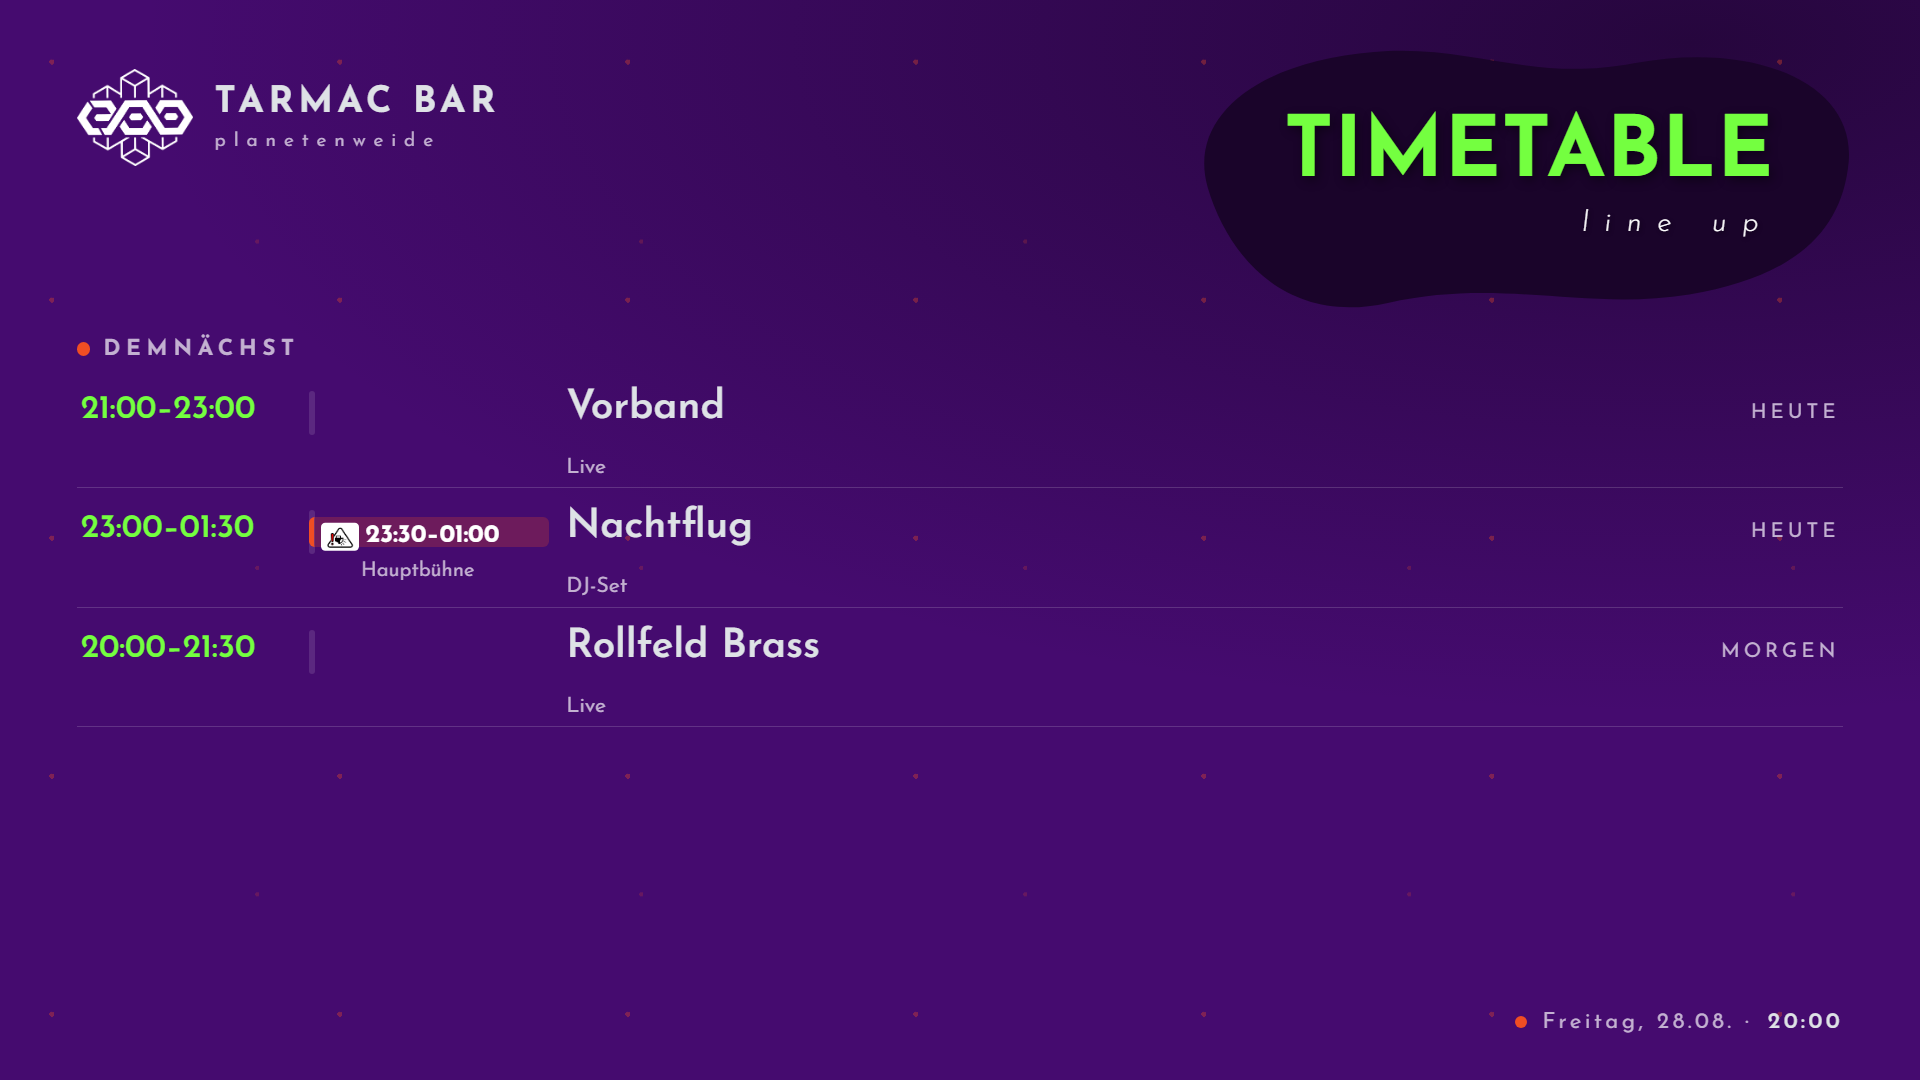
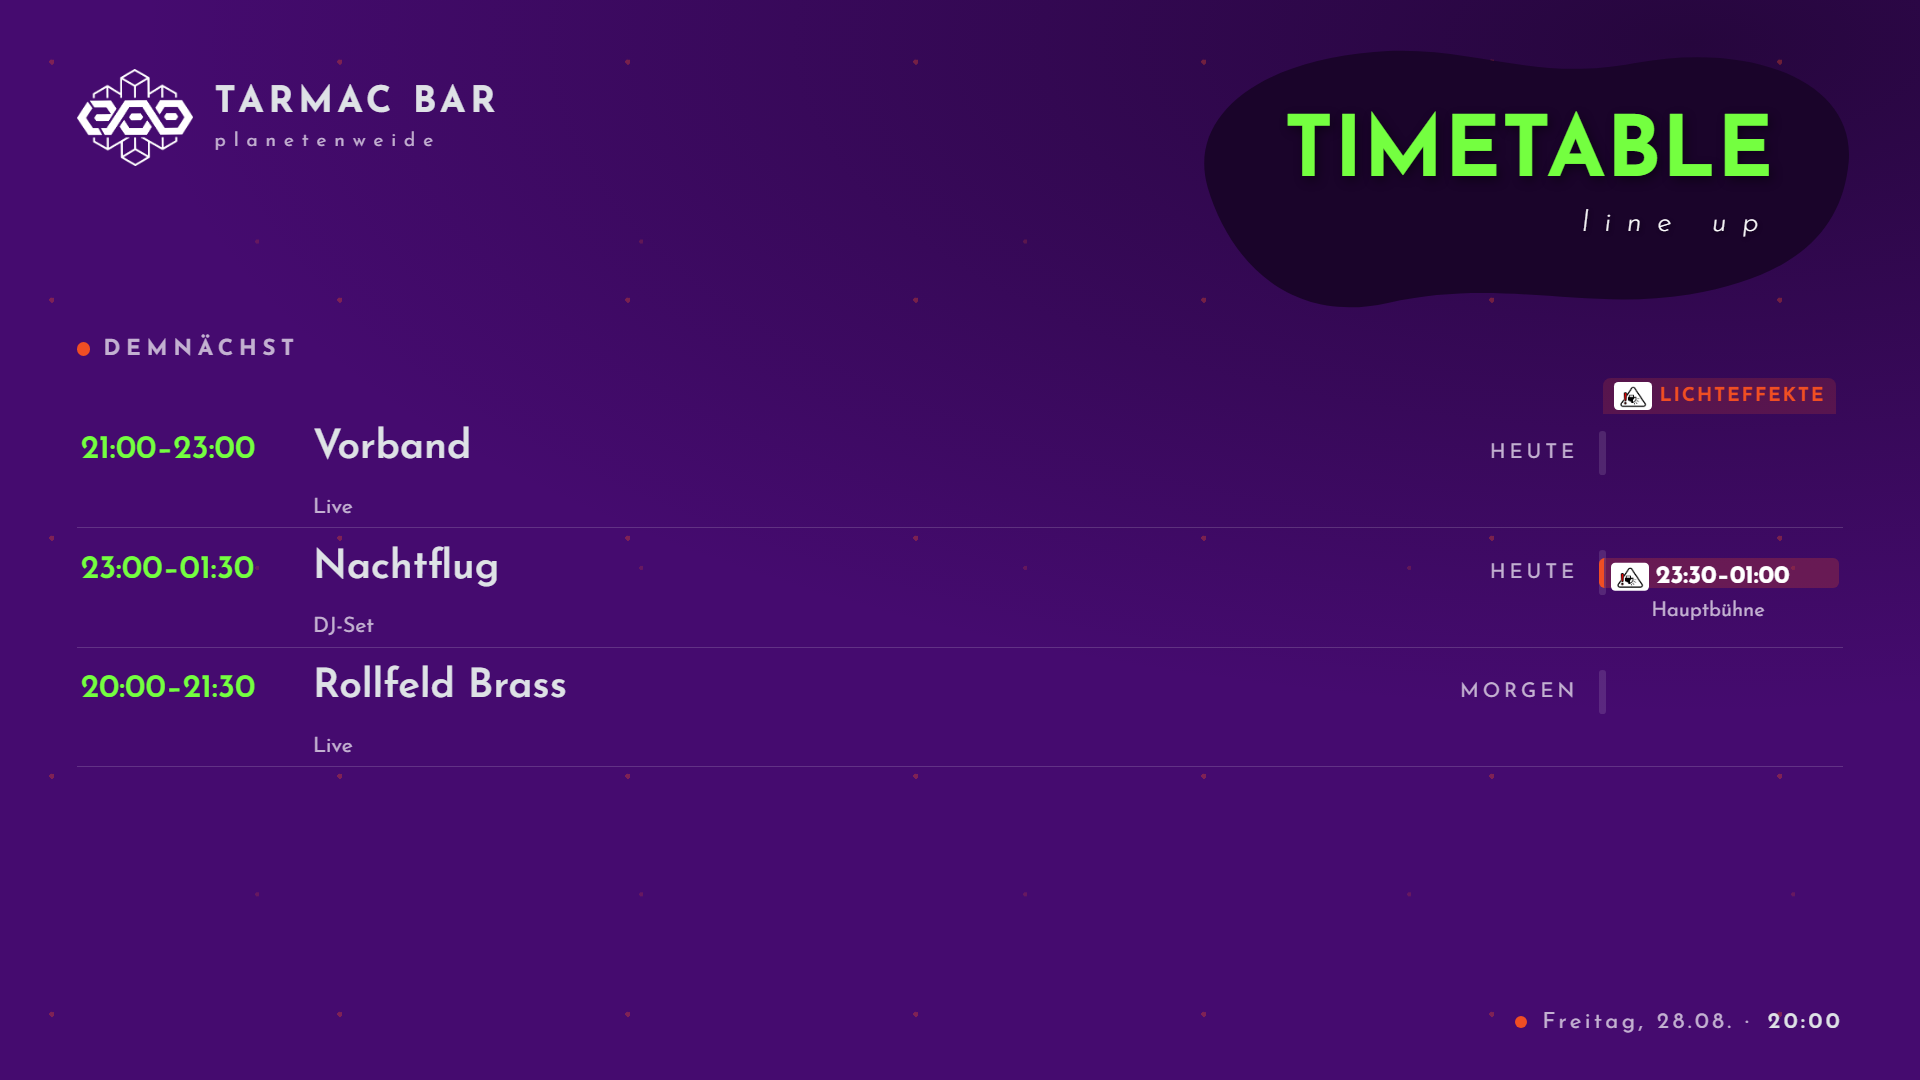
Lichtspalte nach rechts, mit dem Zeichen als Reiter
Die Spalte stand zwischen Uhrzeit und Act und zog die Liste auseinander. Sie
steht jetzt ganz rechts, hinter dem Tag, und darueber sitzt das Warnzeichen mit
der Beschriftung "Lichteffekte" als Reiter. Damit ist auf den ersten Blick klar,
wofuer die Spur steht - vorher war der Balken nur ein Streifen neben dem Act.

Beim Ansehen lief die Beschriftung ueber den Bildrand hinaus: mit der Sperrung
des uebrigen Kleinkrams war "LICHTEFFEKTE" breiter als die Spalte. Schriftgrad
und Sperrung sind jetzt auf die Spaltenbreite abgestimmt, und ein Test misst
nach, dass der Reiter ueber der Spalte sitzt und ins Bild passt.

diff --git a/src/player.css b/src/player.css
@@ -948,18 +948,47 @@ body.uhrUnsicher .fussUhr b { color: var(--accent2); }
    das Licht mitten im Set an, faengt auch der Balken mittendrin an. Eine eigene
    Zeile konnte das nicht zeigen - sie riss die Liste auseinander und
    verschleierte gerade das Interessante. */
+/* Die Lichtspalte steht ganz rechts, mit einem eigenen Kopf darueber. Zwischen
+   Uhrzeit und Act hat sie die Liste auseinandergezogen; am Rand liest sie sich
+   wie das, was sie ist - eine zusaetzliche Spur neben dem Programm. */
+.ttKopf,
 .ttList.mitLicht .ttRow {
-  grid-template-columns: 11em 12.5em 1fr auto;
-  column-gap: 0.9em;
+  display: grid;
+  grid-template-columns: 11em 1fr auto 12.5em;
+  column-gap: 1.1em;
 }
 /* Ausdruecklich benannt: ein Kind mit fester Zeile (die Lichtspur) wird vom
    Browser vor den frei platzierten eingeordnet und haette sich sonst die erste
    Spalte geschnappt - die Uhrzeit waere nach rechts gerutscht. */
 .ttList.mitLicht .ttRow .when { grid-column: 1; }
-.ttList.mitLicht .ttRow .lichtSpur { grid-column: 2; }
-.ttList.mitLicht .ttRow .act { grid-column: 3; }
-.ttList.mitLicht .ttRow .day { grid-column: 4; }
-.ttList.mitLicht .ttRow .info { grid-column: 3 / -1; }
+.ttList.mitLicht .ttRow .act { grid-column: 2; }
+.ttList.mitLicht .ttRow .day { grid-column: 3; }
+.ttList.mitLicht .ttRow .lichtSpur { grid-column: 4; }
+.ttList.mitLicht .ttRow .info { grid-column: 2 / 4; }
+
+/* Der Spaltenkopf: das Zeichen sitzt ueber der Spur wie ein Reiter.
+
+   Die Beschriftung muss in die Spaltenbreite passen - mit der Sperrung des
+   uebrigen Kleinkrams lief sie ueber den Bildrand hinaus. */
+.ttKopf { margin-bottom: 0.25em; }
+.klLicht {
+  grid-column: 4;
+  justify-self: start;
+  display: inline-flex;
+  align-items: center;
+  gap: 0.4em;
+  white-space: nowrap;
+  font-size: 1em;
+  font-weight: 700;
+  letter-spacing: 0.09em;
+  text-transform: uppercase;
+  color: var(--accent2);
+  /* Angedeuteter Reiter: oben rund, unten offen zur Spalte hin */
+  background: color-mix(in srgb, var(--accent2) 18%, transparent);
+  border-radius: 0.4em 0.4em 0 0;
+  padding: 0.22em 0.55em 0.18em;
+}
+body.spar .klLicht { background: none; }
 
 .lichtSpur {
   position: relative;

diff --git a/test/e2e/lichteffekte.spec.js b/test/e2e/lichteffekte.spec.js
@@ -53,6 +53,45 @@ test.describe('Kennzeichnung im Timetable', () => {
       await expect(nachtflug.locator('.lmNote')).toHaveText('Hauptbühne');
     });
 
+  test('die Spalte steht rechts und traegt oben das Zeichen als Reiter',
+    async ({ page, bar }) => {
+      bar.konfig(programm());
+      await zeitStellen(page, FREITAG_20_UHR);
+      await page.goto(bar.adresse + '/');
+
+      const reiter = page.locator('.klLicht');
+      await expect(reiter).toBeVisible();
+      await expect(reiter).toContainText('Lichteffekte');
+      await expect(reiter.locator('.lichtZeichen img')).toHaveCount(1);
+
+      const lage = await page.evaluate(() => {
+        const zeile = document.querySelector('.ttRow.hatLicht');
+        const s = (w) => zeile.querySelector(w).getBoundingClientRect();
+        const k = document.querySelector('.klLicht').getBoundingClientRect();
+        const spur = s('.lichtSpur');
+        return {
+          rechtsVomAct: spur.left >= s('.act').right,
+          rechtsVomTag: spur.left >= s('.day').right,
+          // Der Reiter sitzt ueber der Spalte, nicht irgendwo
+          kopfUeberSpalte: Math.abs(k.left - spur.left) < 4 && k.bottom <= spur.top,
+          // und laeuft nicht ueber den Bildrand hinaus
+          imBild: k.right <= window.innerWidth
+        };
+      });
+
+      expect(lage.rechtsVomAct, 'die Spalte steht rechts vom Act').toBe(true);
+      expect(lage.rechtsVomTag, 'und rechts vom Tag').toBe(true);
+      expect(lage.kopfUeberSpalte, 'der Reiter sitzt ueber der Spalte').toBe(true);
+      expect(lage.imBild, 'der Reiter passt ins Bild').toBe(true);
+    });
+
+  test('ohne Lichtzeiten gibt es auch keinen Reiter', async ({ page, bar }) => {
+    bar.konfig(programm({ lichteffekte: [] }));
+    await zeitStellen(page, FREITAG_20_UHR);
+    await page.goto(bar.adresse + '/');
+    await expect(page.locator('.klLicht')).toHaveCount(0);
+  });
+
   test('der Balken sitzt versetzt - dort, wo die Phase wirklich anfaengt',
     async ({ page, bar }) => {
       bar.konfig(programm());

diff --git a/src/player.js b/src/player.js
@@ -834,6 +834,14 @@ function renderTimetable() {
 
   if (zeilen.length) {
     body += '<div class="ttLabel">' + (view.current ? 'ALS N&Auml;CHSTES' : 'DEMN&Auml;CHST') + '</div>';
+
+    // Kopf ueber der Lichtspalte, damit klar ist, wofuer die Spalte steht -
+    // ohne ihn waere der Balken nur ein Streifen neben dem Act.
+    if (mitLicht) {
+      body += '<div class="ttKopf"><span class="klLicht">' + lichtZeichen() +
+        '<span>Lichteffekte</span></span></div>';
+    }
+
     body += '<div class="ttList' + (mitLicht ? ' mitLicht' : '') + '">';
     for (const x of zeilen) {
       const e = x.eintrag;
@@ -842,13 +850,13 @@ function renderTimetable() {
 
       body += '<div class="ttRow' + (spuren.length ? ' hatLicht' : '') + '">' +
         '<div class="when">' + when + '</div>' +
-        (mitLicht ? lichtSpurHtml(spuren) : '') +
         '<div class="act">' +
           (e.photo ? '<span class="ttThumb"><img src="' + photoUrl(e.photo) +
                      '" alt="" style="' + fotoStil(e) + '"></span>'
                    : (anyPhoto ? '<span class="ttThumb empty"></span>' : '')) +
           '<span>' + escapeHtml(e.act) + '</span></div>' +
         '<div class="day">' + escapeHtml(dayLabel(x.se.start, now)) + '</div>' +
+        (mitLicht ? lichtSpurHtml(spuren) : '') +
         (e.info ? '<div class="info">' + escapeHtml(e.info) + '</div>' : '') +
         '</div>';
     }

diff --git a/README.md b/README.md
@@ -341,10 +341,10 @@ läuft über zwei Acts hinweg oder liegt in einer Pause; wer sich darauf verläs
 muss die echte Zeitspanne sehen und nicht die des DJs, der zufällig gerade
 spielt. **Ein Eintrag ohne Endzeit wird nicht angezeigt.**
 
-Auf dem Timetable bekommt das eine **eigene Spalte** neben den Spielzeiten. Der
-Balken darin sitzt genau dort, wo die Phase innerhalb des Sets liegt: fängt das
-Licht mitten im Set an, fängt auch der Balken mittendrin an. Beschriftet wird
-er mit seiner eigenen Zeitspanne.
+Auf dem Timetable bekommt das eine **eigene Spalte am rechten Rand**, mit dem
+Warnzeichen als Reiter darüber. Der Balken darin sitzt genau dort, wo die Phase
+innerhalb des Sets liegt: fängt das Licht mitten im Set an, fängt auch der
+Balken mittendrin an. Beschriftet wird er mit seiner eigenen Zeitspanne.
 
 ![Lichteffekte im Timetable](docs/screenshots/anzeige-lichteffekte-timetable.png)
 
